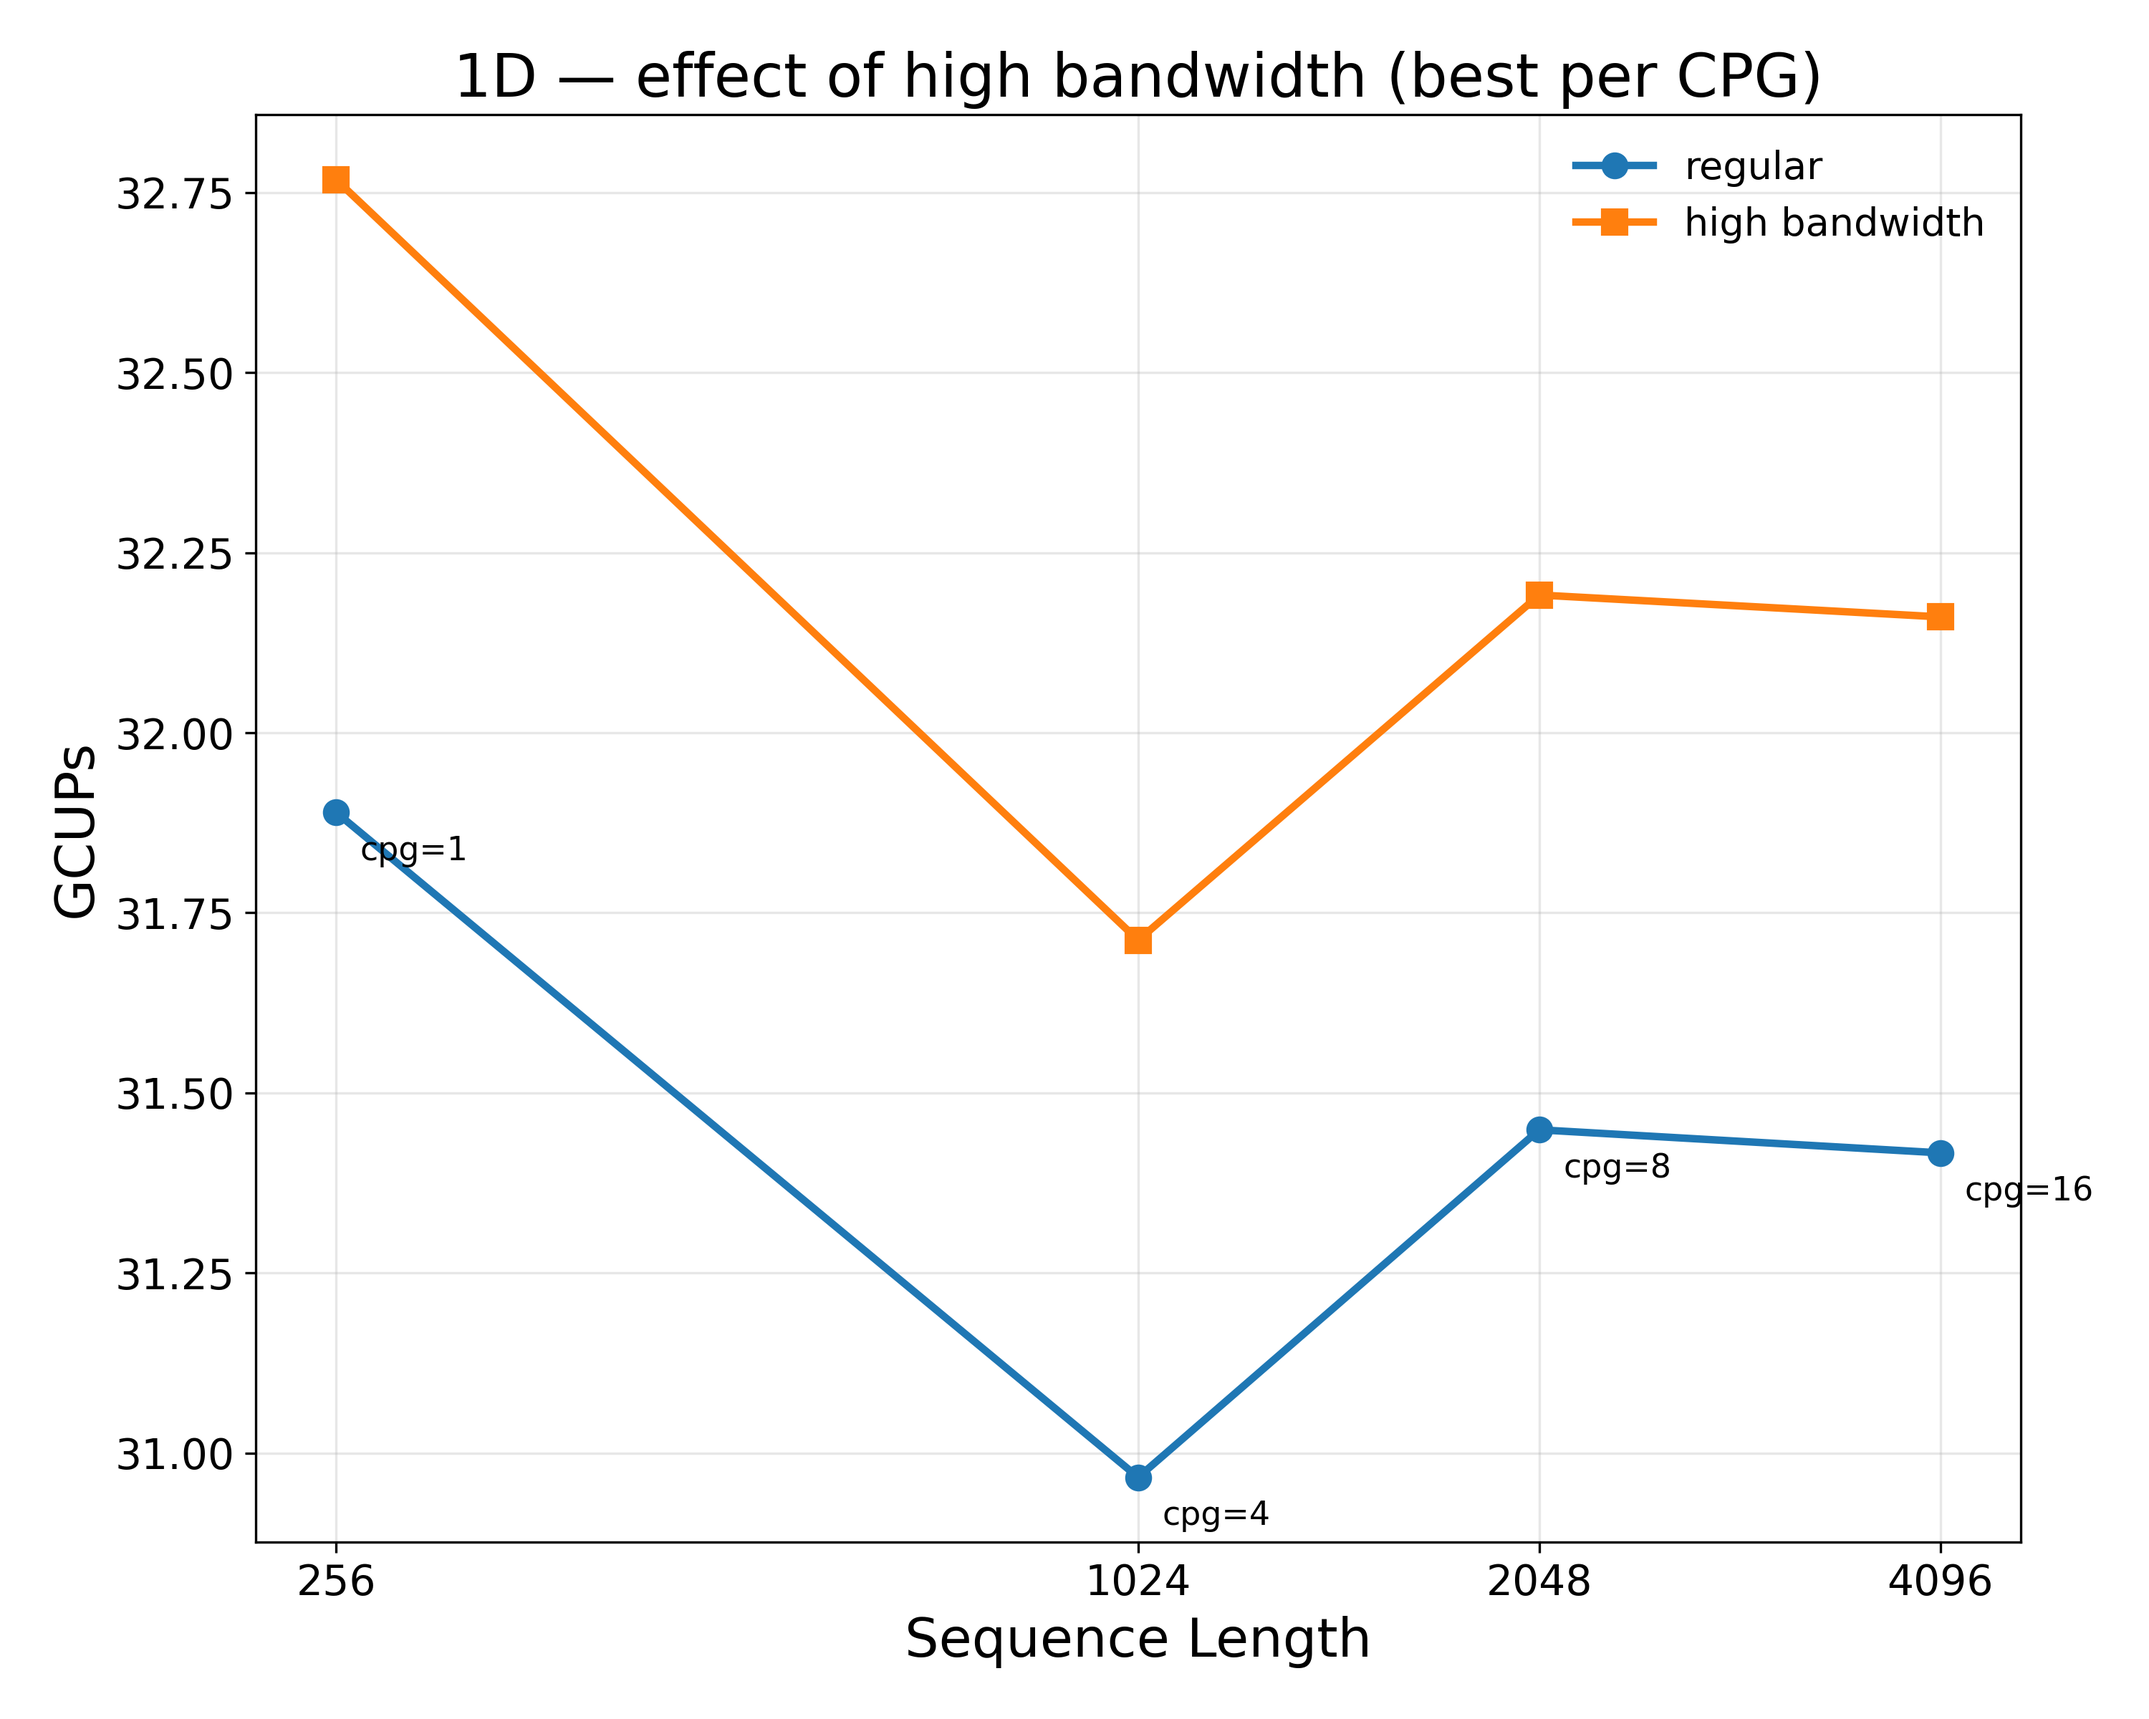
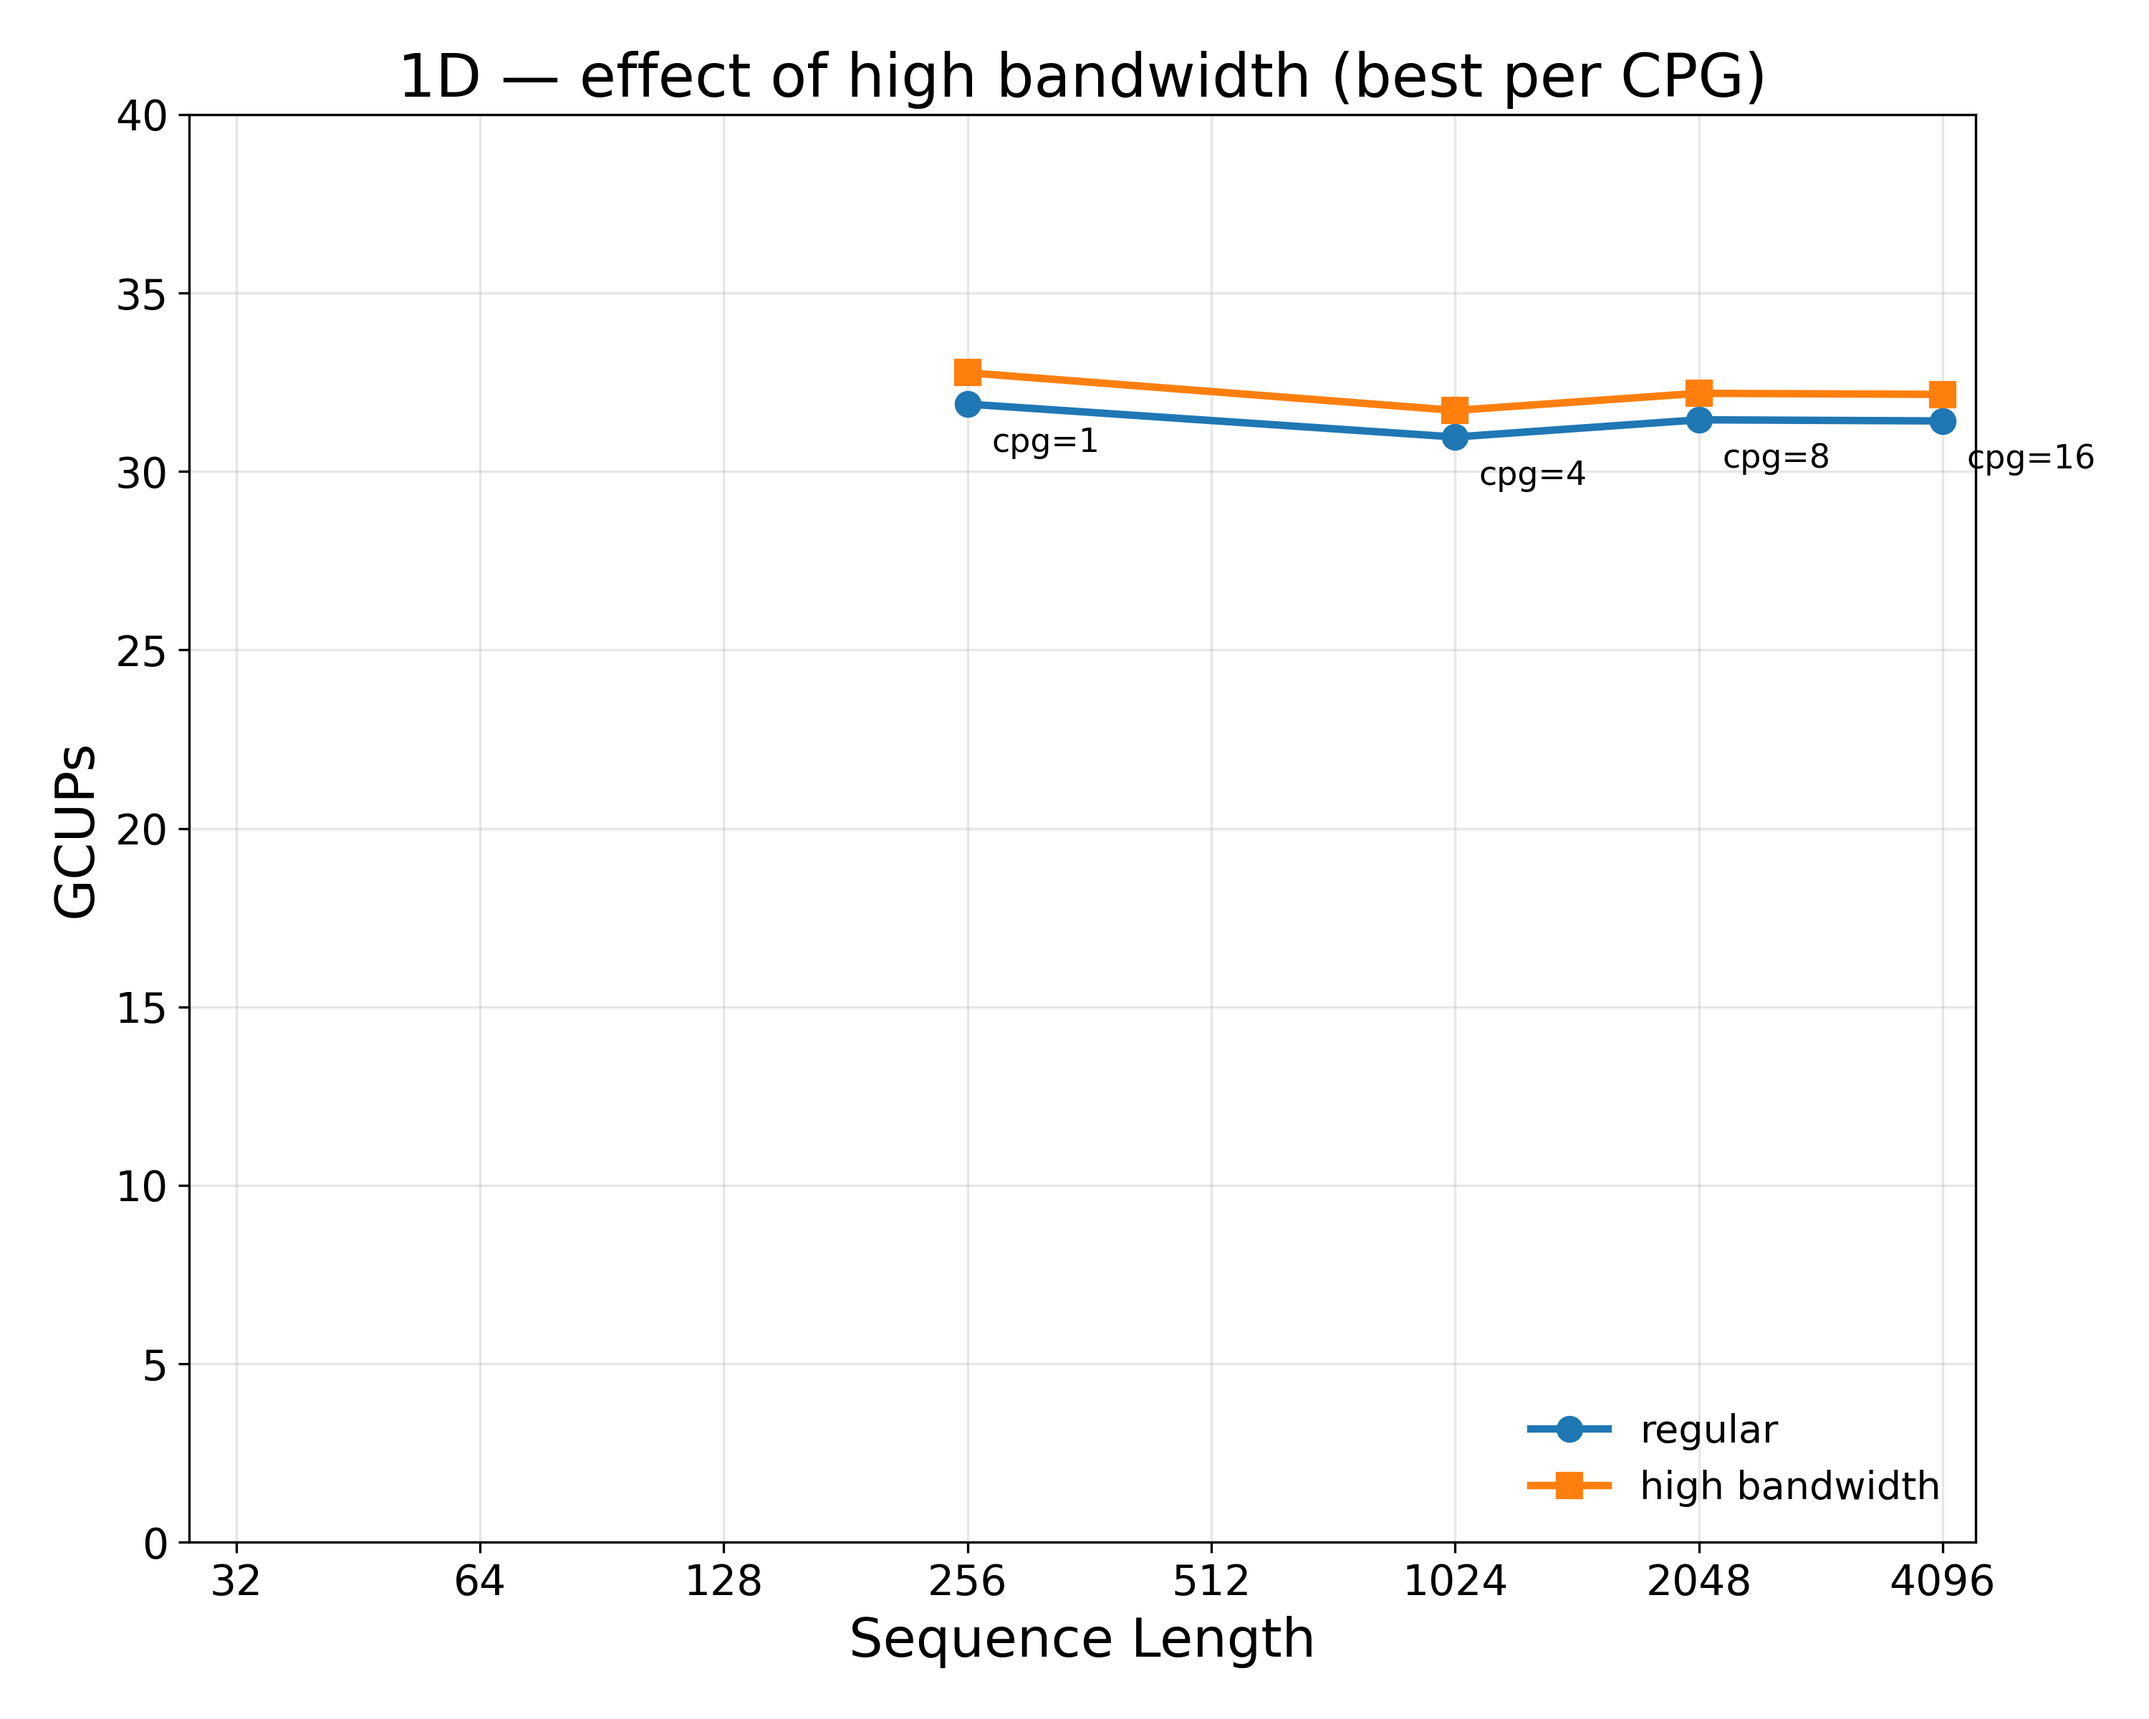
sw effect_hibw: shared axes (32-4096 seq_len, 0-40 GCUPs) for side-by-side

diff --git a/plot.py b/plot.py
@@ -318,10 +318,29 @@ def plot_1d_vs_2d():
 def plot_sw_effect_hibw():
     """Separate regular vs high-bandwidth plots for sw/1d and sw/2d.
 
+    Shared axes (so the two plots are directly comparable side-by-side
+    in a presentation):
+      x: seq_len 32–4096 (covers both 2D's 32–1024 range and 1D's 256–4096)
+      y: 0–40 GCUPs
+
     sw/2d covers seq_len 32–1024 (6 points, both fast and slow have full data).
     sw/1d covers only the 4 (cpg, seq_len) pairs that have both fast and
     slow data — the slow filter sampled the largest seq_len per CPG only.
     """
+    SHARED_TICKS = [32, 64, 128, 256, 512, 1024, 2048, 4096]
+    SHARED_XLIM  = (28, 4500)
+    SHARED_YLIM  = (0, 40)
+
+    def style_shared_axes(ax):
+        ax.set_xscale("log", base=2)
+        ax.set_xticks(SHARED_TICKS)
+        ax.xaxis.set_major_formatter(mticker.ScalarFormatter())
+        ax.xaxis.set_minor_formatter(mticker.NullFormatter())
+        ax.set_xlim(*SHARED_XLIM)
+        ax.set_ylim(*SHARED_YLIM)
+        ax.set_xlabel("Sequence Length")
+        ax.set_ylabel("GCUPs")
+
     # ── sw/2d ──────────────────────────────────────────────────────────────
     fast_2d = {int(r["seq_len"]): r for r in load_sw2d_fast()}
     slow_2d = {int(r["seq_len"]): r for r in load_sw2d_slow()}
@@ -331,8 +350,8 @@ def plot_sw_effect_hibw():
     fig, ax = plt.subplots(figsize=SIZE_DEFAULT)
     ax.plot(common_2d, reg, "o-", color=COLOR_REGULAR, label="regular")
     ax.plot(common_2d, hib, "s-", color=COLOR_HIBW,    label="high bandwidth")
-    style_seqlen_axis(ax, common_2d); gcups_axis(ax)
-    ax.legend(loc="best", frameon=False)
+    style_shared_axes(ax)
+    ax.legend(loc="lower right", frameon=False)
     ax.set_title("2D — effect of high bandwidth")
     save(fig, "2d_effect_hibw")
 
@@ -349,8 +368,8 @@ def plot_sw_effect_hibw():
     for (cpg, sl), r in zip(common_1d, reg_1d):
         ax.annotate(f"cpg={cpg}", (sl, r), textcoords="offset points",
                     xytext=(8, -16), fontsize=11)
-    style_seqlen_axis(ax, sls); gcups_axis(ax)
-    ax.legend(loc="best", frameon=False)
+    style_shared_axes(ax)
+    ax.legend(loc="lower right", frameon=False)
     ax.set_title("1D — effect of high bandwidth (best per CPG)")
     save(fig, "1d_effect_hibw")
 
